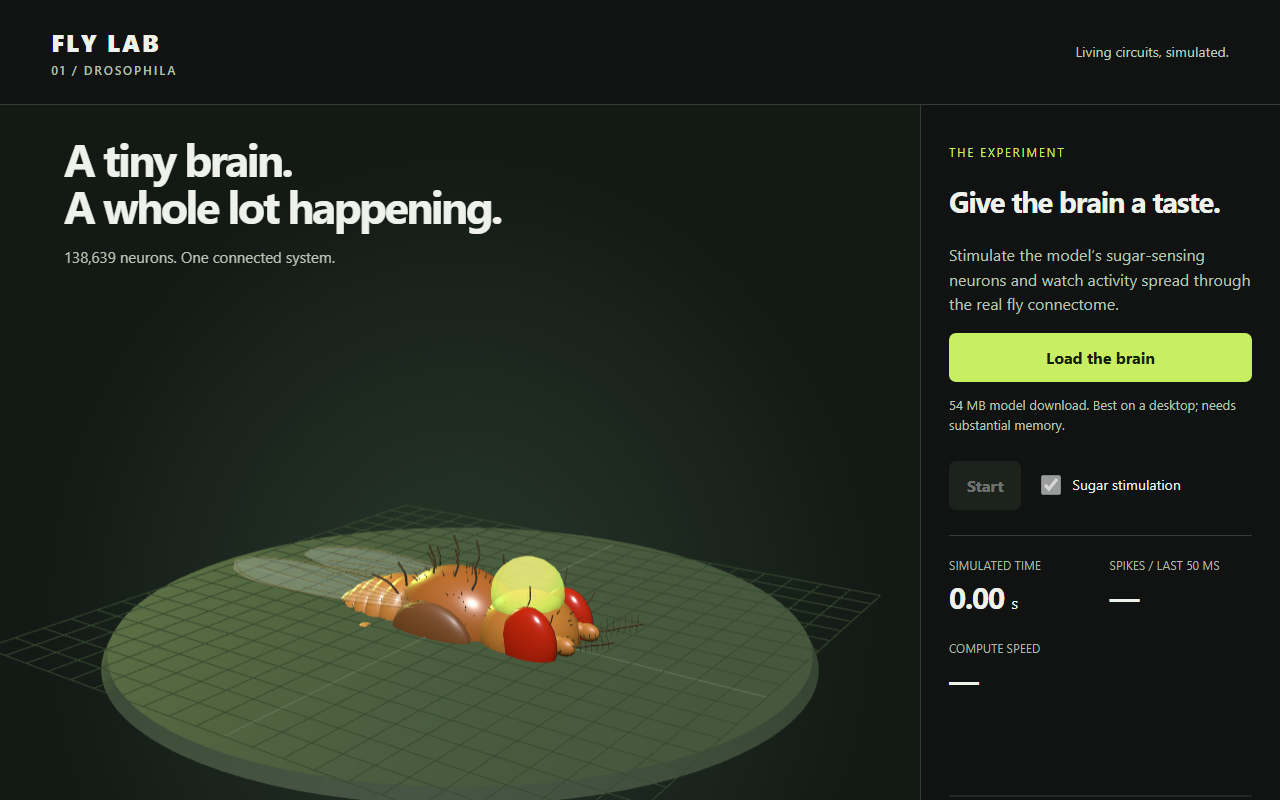
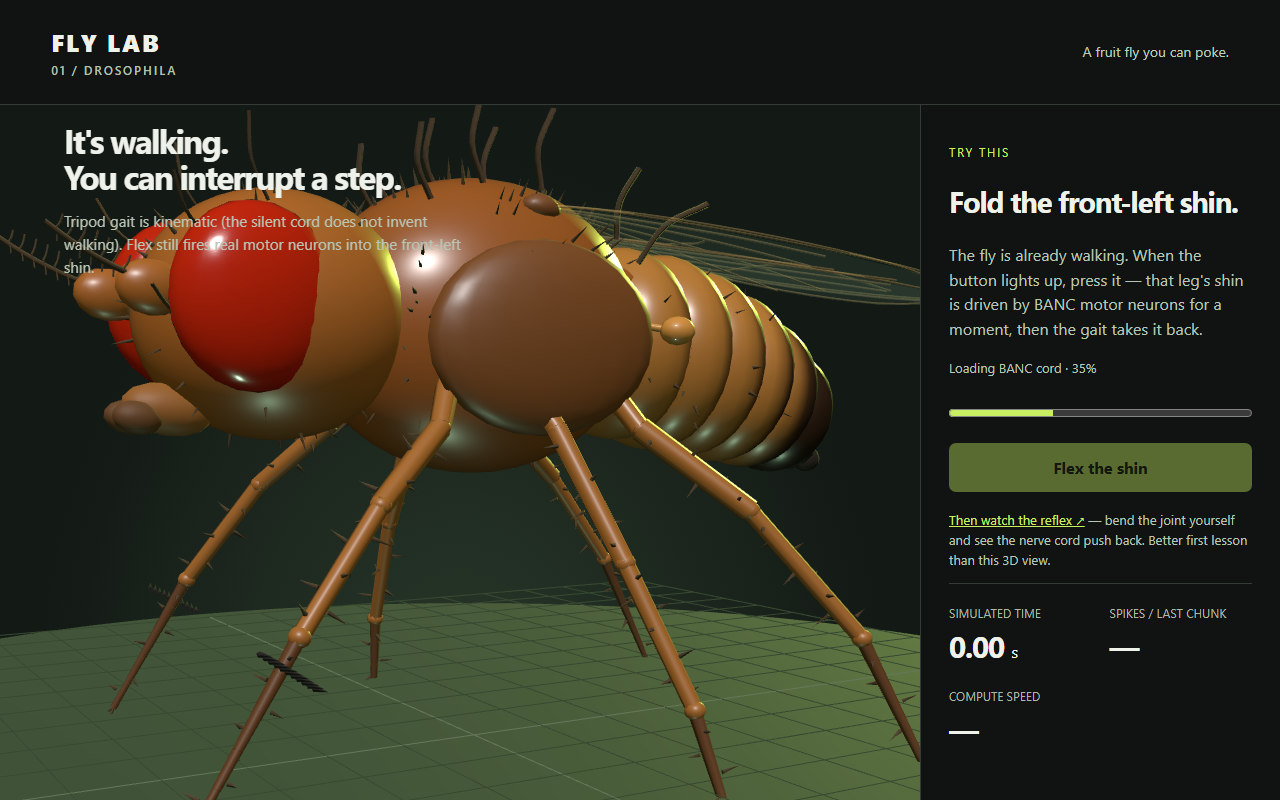
Walk the 3D fly: kinematic tripod on load, Flex interrupts the shin
The authored walk clip plus idle run on the rig so the animal is moving
when the page opens. BANC still drives the front-left tibia on Flex; the
walk slows for that step. Not connectome-emergent locomotion.

diff --git a/dist/index.html b/dist/index.html
@@ -14,8 +14,8 @@
 <main>
   <section class="stage">
     <div class="stage-title">
-      <h1>This shin folds<br>because a neuron fired.</h1>
-      <p>A real fruit-fly motor neuron, traced in electron microscope pictures, pulling on a 3D leg.</p>
+      <h1>It's walking.<br>You can interrupt a step.</h1>
+      <p>Tripod gait is kinematic (the silent cord does not invent walking). Flex still fires real motor neurons into the front-left shin.</p>
     </div>
     <canvas id="scene" aria-label="Interactive three-dimensional fruit fly"></canvas>
     <div class="stage-caption">
@@ -26,7 +26,7 @@
   <aside>
     <div class="eyebrow">TRY THIS</div>
     <h2>Fold the front-left shin.</h2>
-    <p>Wait until the button lights up, then press it. The green glow is leftover activity, not a thought. Nothing decided to move — a motor neuron fired and the joint went with it.</p>
+    <p>The fly is already walking. When the button lights up, press it — that leg's shin is driven by BANC motor neurons for a moment, then the gait takes it back.</p>
     <p id="status" role="status">Loading the nerve cord…</p>
     <progress id="progress" max="1" value="0" hidden></progress>
     <div class="controls primary">

diff --git a/qa_flylab.py b/qa_flylab.py
@@ -21,7 +21,11 @@ def main() -> int:
         page.on("console", lambda m: errors.append(f"console[{m.type}]: {m.text[:160]}") if m.type == "error" else None)
 
         page.goto(BASE, wait_until="domcontentloaded", timeout=30000)
-        time.sleep(3.5)
+        page.wait_for_function(
+            "() => window.__qa && Math.abs(window.__qa().coxaY) > 0.02",
+            timeout=20000,
+        )
+        log["pose"] = page.evaluate("() => window.__qa ? window.__qa() : null")
 
         webgl = page.evaluate(
             "() => { const c = document.querySelector('#scene');"

diff --git a/README.md b/README.md
@@ -2,11 +2,11 @@
 
 Browser-local FlyWire v783 neural simulation in WebAssembly, with a Three.js rigged anatomical male fly driven by a BANC v888 motor-neuron LUT. No model inference server is used.
 
-This is a neural simulation prototype, not validated motor embodiment. Tagged `sexMismatch: male-morphology/female-CNS`. The body is kinematic (MN rate → first-order muscle → hinge), not MuJoCo. Idle clips are off; joints are driven. Glow is aggregate activity, not a biological mapping of circuit anatomy.
+This is a neural simulation prototype, not validated motor embodiment. Tagged `sexMismatch: male-morphology/female-CNS`. The body is kinematic (MN rate → first-order muscle → hinge), not MuJoCo. A kinematic tripod walk clip runs on the rig; BANC motor rates overlay driven joints (Flex the shin). Glow is aggregate activity, not a biological mapping of circuit anatomy.
 
 ## The rigged body
 
-The stage fly is a procedural, photo-matched **rigged male Drosophila melanogaster**. Press **Flex the shin** to fire real BANC tibia-flexor neurons. The first lesson is [`dist/reflex.html`](https://fly-neural-lab.vercel.app/reflex.html): bend the joint and watch the cord push back.
+The stage fly is a procedural, photo-matched **rigged male Drosophila melanogaster**. It walks a kinematic tripod on load. Press **Flex the shin** to fire real BANC tibia-flexor neurons into that joint. The first lesson is [`dist/reflex.html`](https://fly-neural-lab.vercel.app/reflex.html): bend the joint and watch the cord push back.
 
 ## Implementation
 
